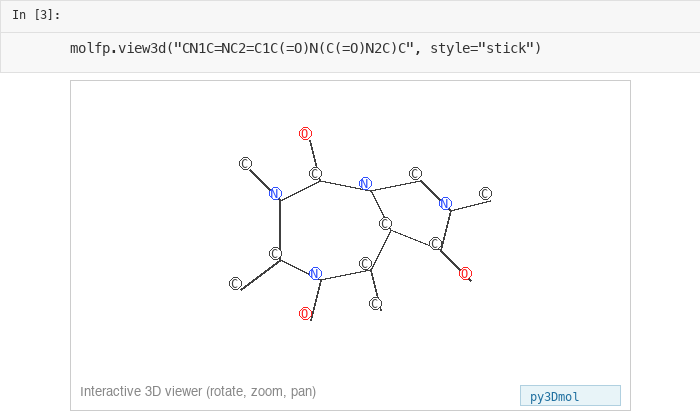
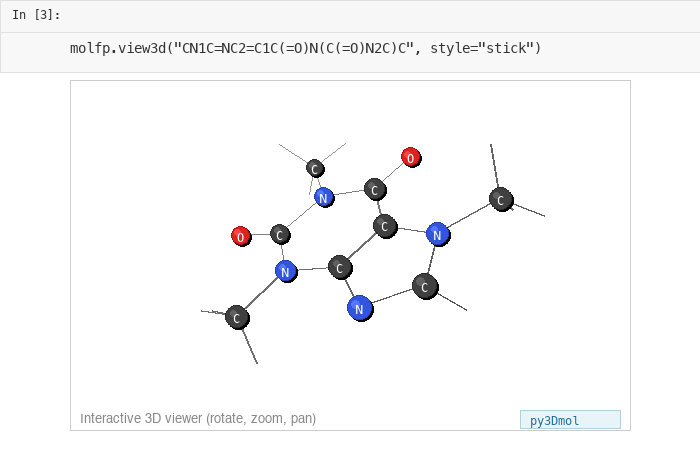
Improve README screenshots: side-by-side 2D layout, 3D depth rendering
Place 2D grid and highlight images in a two-column table layout.
Regenerate 3D viewer mock with real MMFF94-optimized coordinates,
perspective projection, rotated view, and shaded atom spheres.

Generated with [Snowflake CoCo](https://docs.snowflake.com/en/user-guide/cortex-code/cortex-code)

diff --git a/README.md b/README.md
@@ -46,13 +46,16 @@ molfp.draw(smiles_list, legends=["Aspirin", "Caffeine", ...], mols_per_row=3)
 molfp.draw("CC(=O)Oc1ccccc1C(=O)O", highlight_bits=[88, 143, 162], fp_type="maccs")
 ```
 
-<p align="center">
-<img src="assets/draw_2d_grid.png" alt="2D molecule grid" width="700">
-</p>
-
-<p align="center">
-<img src="assets/draw_2d_highlight.png" alt="2D with fingerprint bit highlighting" width="300">
-</p>
+<table>
+<tr>
+<td align="center"><img src="assets/draw_2d_grid.png" alt="2D molecule grid" width="500"></td>
+<td align="center"><img src="assets/draw_2d_highlight.png" alt="2D with fingerprint bit highlighting" width="220"></td>
+</tr>
+<tr>
+<td align="center"><em>Molecule grid with labels</em></td>
+<td align="center"><em>Fingerprint bit highlighting</em></td>
+</tr>
+</table>
 
 ### 3D Interactive Viewer
 
